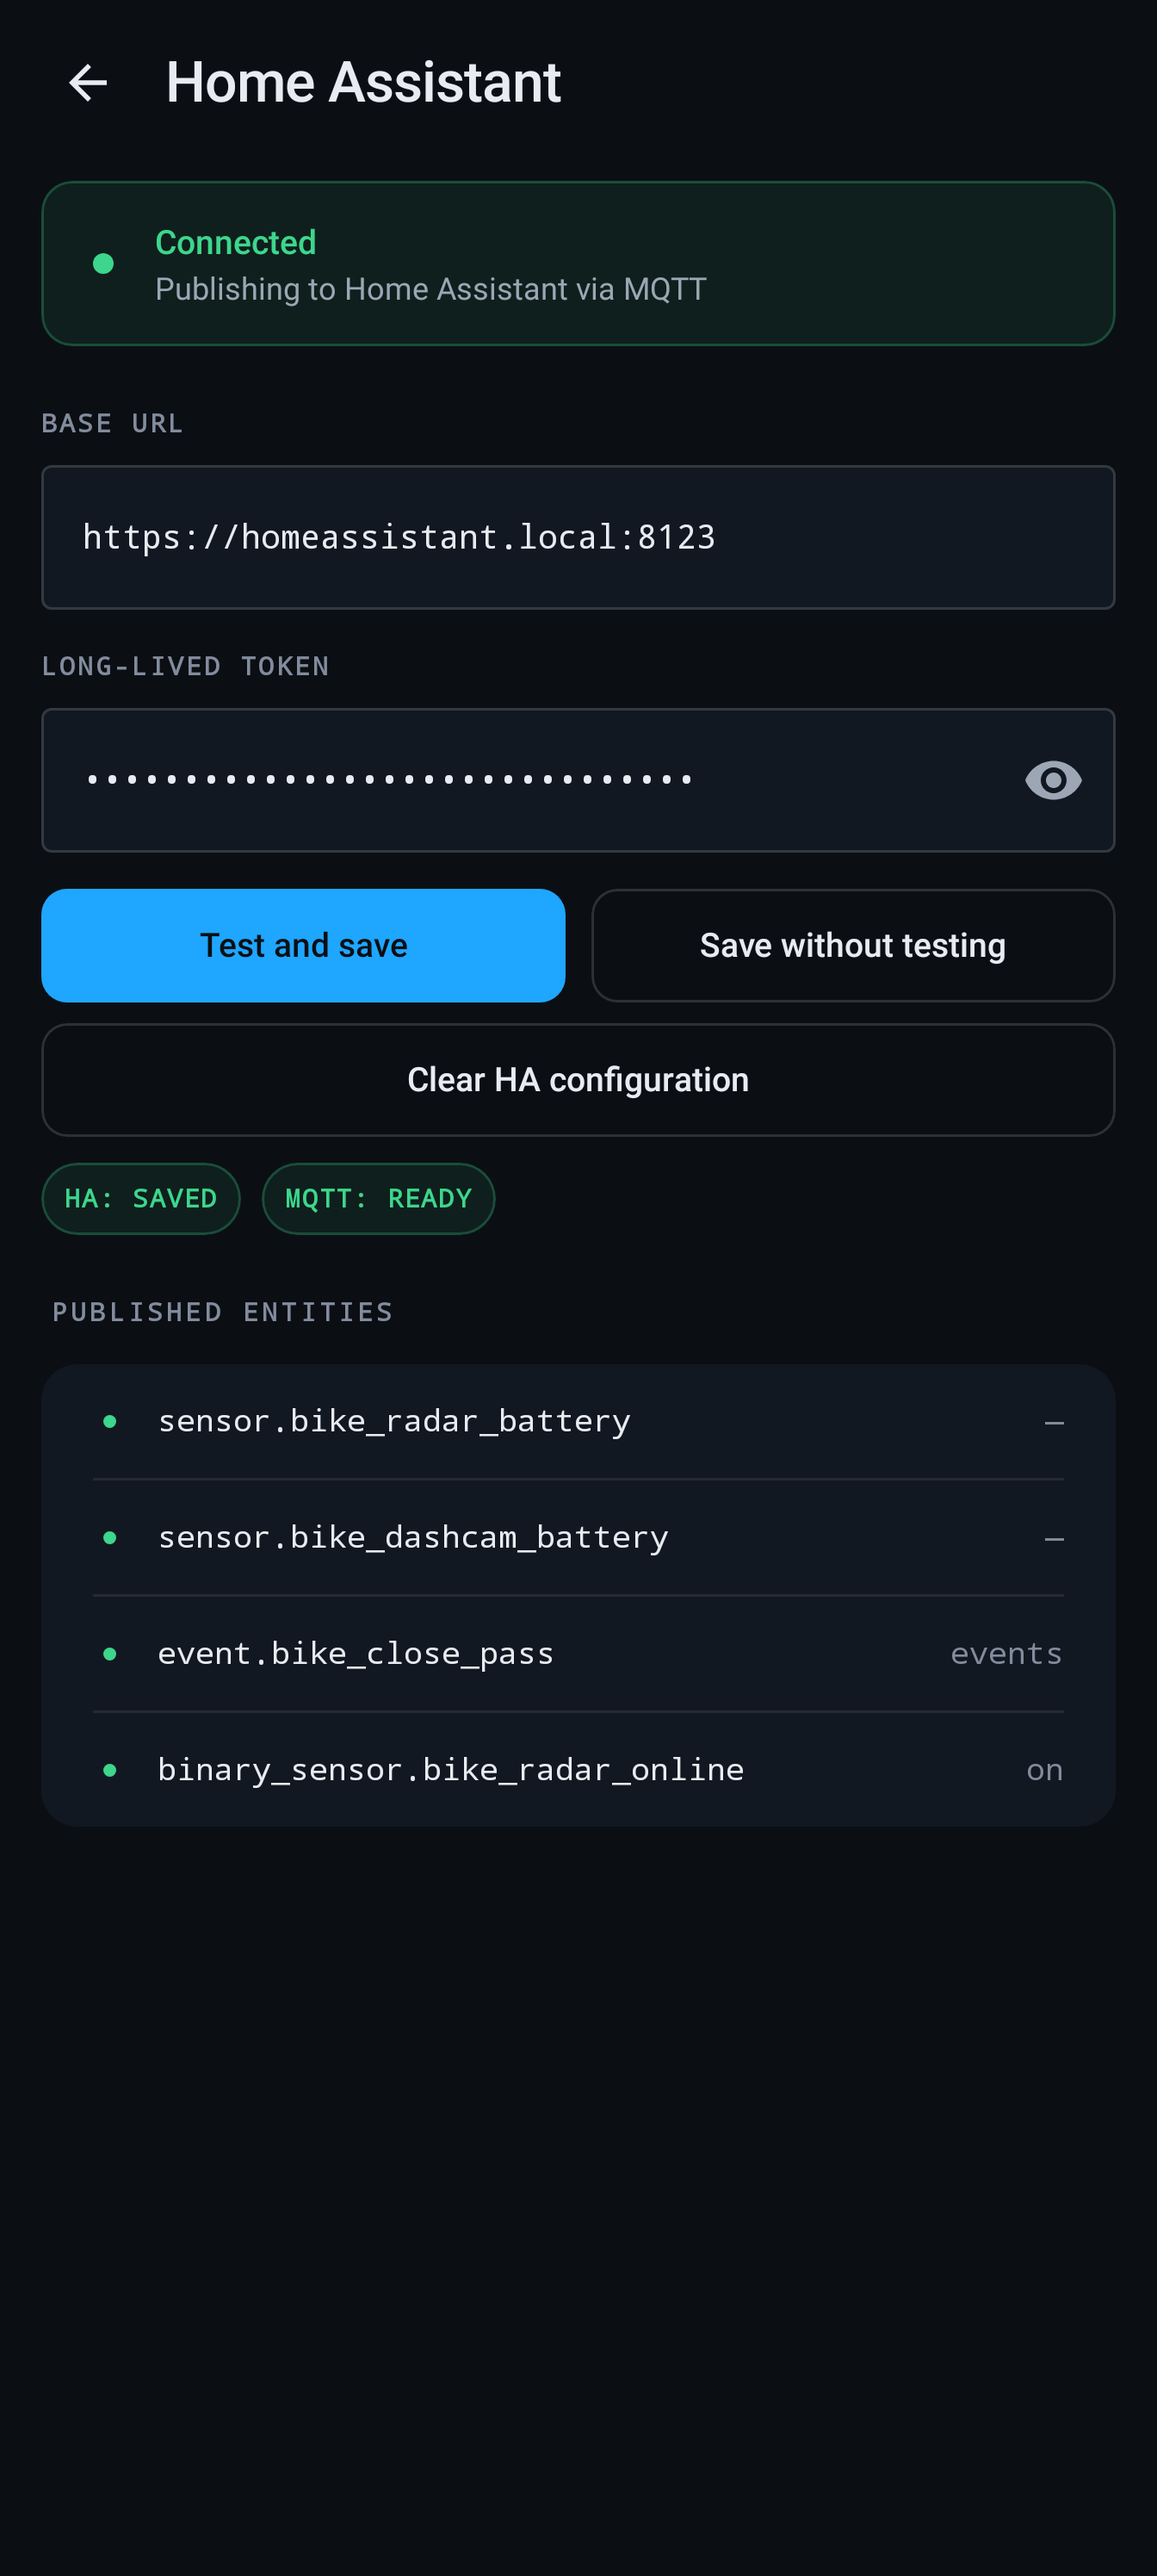
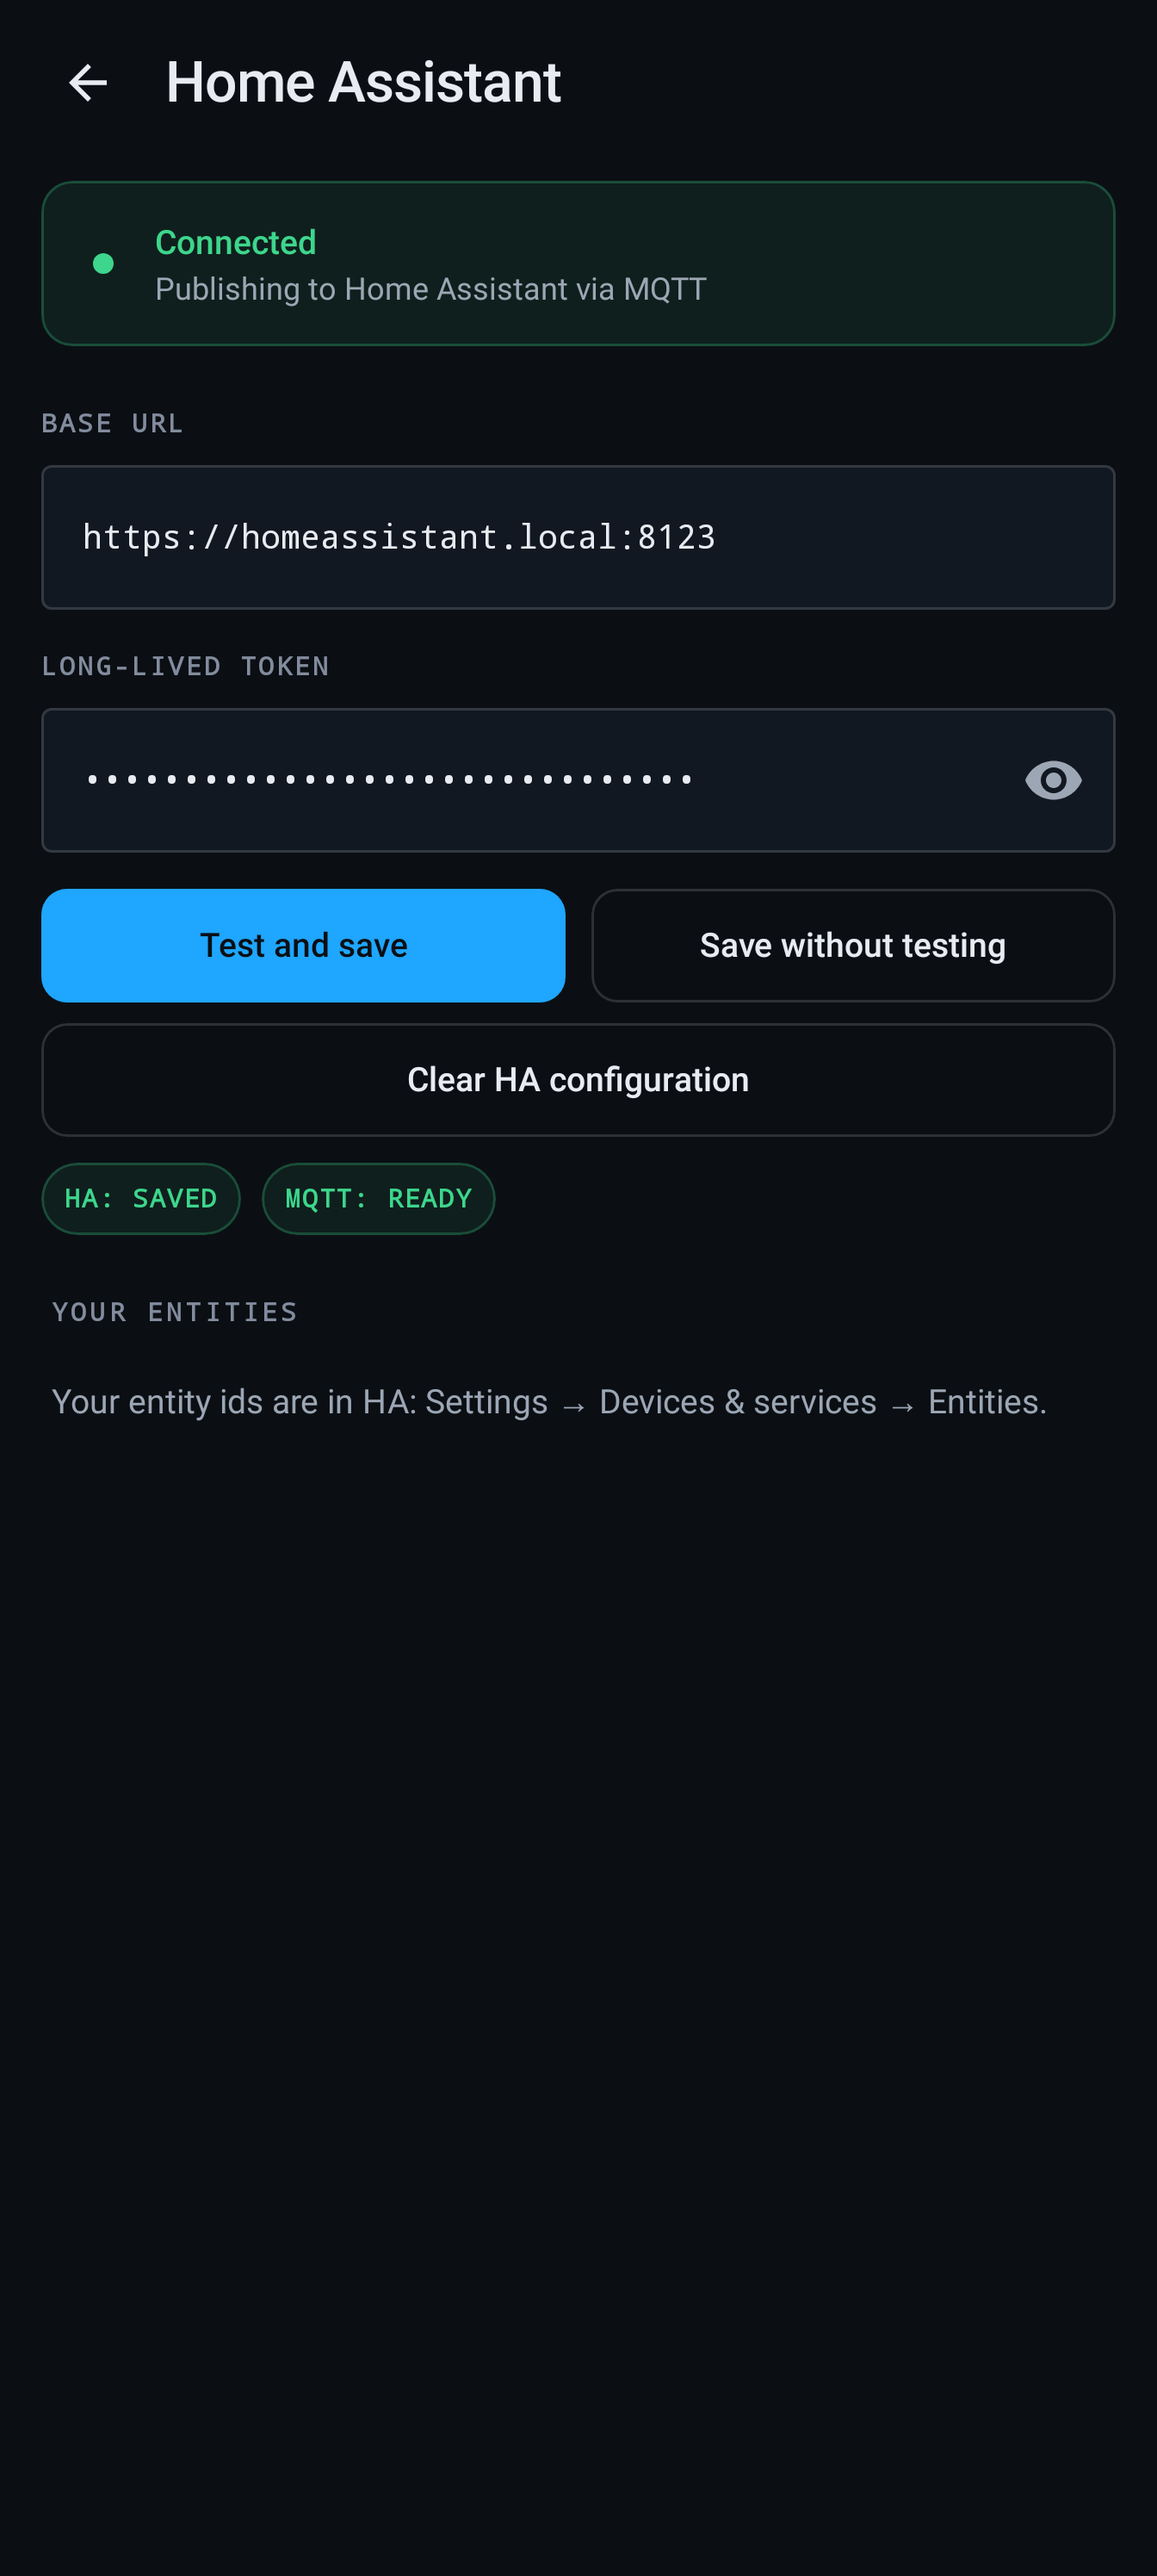
fix(ha): stop offering entity ids Home Assistant never assigns
The screen listed ids built from the MQTT namespace and device slug. Home
Assistant uses neither, building them from the device name and the
entity's display name. A rider pasting one into an automation got no
match and no error.

Reproducing them here would copy HA's slug rules, free to drift, so the
screen points at where the real ids live instead, and only claims they
are there once something has actually been published.

diff --git a/app/src/main/java/es/jjrh/bikeradar/ui/SettingsHa.kt b/app/src/main/java/es/jjrh/bikeradar/ui/SettingsHa.kt
@@ -50,9 +50,6 @@ import androidx.compose.ui.text.input.VisualTransformation
 import androidx.compose.ui.unit.dp
 import androidx.compose.ui.unit.sp
 import androidx.navigation.NavController
-import es.jjrh.bikeradar.BatteryStateBus
-import es.jjrh.bikeradar.BikeRadarService
-import es.jjrh.bikeradar.DeviceNameMatcher
 import es.jjrh.bikeradar.HaClient
 import es.jjrh.bikeradar.HaHealth
 import es.jjrh.bikeradar.HaHealthBus
@@ -64,7 +61,6 @@ import es.jjrh.bikeradar.data.HaCredentials
 import es.jjrh.bikeradar.data.Prefs
 import kotlinx.coroutines.Dispatchers
 import kotlinx.coroutines.launch
-import java.util.Locale
 
 @Composable
 fun SettingsHa(navController: NavController, prefs: Prefs) {
@@ -80,18 +76,6 @@ private fun SettingsHaBody(navController: NavController, prefs: Prefs) {
     val creds = remember { HaCredentials(ctx) }
     val haHealth by HaHealthBus.state.collectAsState()
     val prefsSnap by prefs.flow.collectAsState(initial = prefs.snapshot())
-    // Resolved by device class, because the entity families differ per device.
-    // Deliberately NOT freshness-filtered like the other reads of this bus: an
-    // entity persists in HA whether or not the device was seen recently.
-    val batteryEntries by BatteryStateBus.entries.collectAsState()
-    val radarSlug = batteryEntries.values
-        .firstOrNull { DeviceNameMatcher.isRadarName(it.name) }?.slug
-    val cameraSlug = prefsSnap.dashcamMac?.let { mac ->
-        BikeRadarService.macToSlug[mac]
-            ?: BikeRadarService.macToSlug[mac.uppercase(Locale.ROOT)]
-            ?: prefsSnap.dashcamDisplayName?.let { BikeRadarService.slug(it) }
-    }?.takeIf { batteryEntries.containsKey(it) }
-
     // urlField + tokenField + tokenVisible survive Activity recreate
     // (rotation, system-killed-on-resume) so a half-typed token isn't
     // lost. pingResult/mqttResult/pinging are transient — if the
@@ -139,10 +123,6 @@ private fun SettingsHaBody(navController: NavController, prefs: Prefs) {
         pinging = pinging,
         haHealth = haHealth,
         haConfigured = haConfigured,
-        radarSlug = radarSlug,
-        cameraSlug = cameraSlug,
-        closePassEnabled = prefsSnap.closePassLoggingEnabled,
-        autoLightModeEnabled = prefsSnap.autoLightModeEnabled,
         onBack = { navController.popBackStack() },
         onTestAndSave = {
             val url = urlField.trim()
@@ -239,12 +219,6 @@ internal fun SettingsHaContent(
     onTestAndSave: () -> Unit,
     onSaveWithoutTesting: () -> Unit,
     onClear: () -> Unit,
-    /** Battery, close-pass events and the ride statistics. */
-    radarSlug: String? = null,
-    /** Battery and light mode only. */
-    cameraSlug: String? = null,
-    closePassEnabled: Boolean = false,
-    autoLightModeEnabled: Boolean = false,
 ) {
     val br = LocalBrColors.current
     Box(modifier = Modifier.fillMaxSize().background(br.bg).systemBarsPadding()) {
@@ -377,38 +351,25 @@ internal fun SettingsHaContent(
                 }
             }
 
-            // The ids the rider will find in their Home Assistant. No value is
-            // shown because none is queried.
-            val published = haStatus == HaStatus.READY
-            // Asked of the publisher: the families are not per-device.
-            val entityIds = HaClient.publishedEntityIds(
-                radarSlug = radarSlug,
-                cameraSlug = cameraSlug,
-                closePassEnabled = closePassEnabled,
-                autoLightModeEnabled = autoLightModeEnabled,
-            )
+            // Points at Home Assistant rather than listing ids, because the app
+            // cannot know them: HA derives an entity id from the device name
+            // and the entity's display name using its own slug rules, and does
+            // not use the payload's `object_id`. Reproducing that here would be
+            // a second copy of another system's naming rule, free to drift.
+            // Two branches, because until a publish has succeeded there is
+            // nothing in HA to go and look at, and sending the rider there
+            // would have them hunting for entities that do not exist yet.
             SettingsSectionLabel(stringResource(R.string.settings_ha_published_entities))
-            if (entityIds.isEmpty()) {
-                // Prose, not an EntityRow: through that it renders monospace
-                // with a status dot and reads as a fake entity id.
-                Text(
-                    text = stringResource(R.string.settings_ha_entities_none_yet),
-                    color = br.fgMuted,
-                    fontSize = 13.sp,
-                    modifier = Modifier.padding(horizontal = 20.dp, vertical = 4.dp),
-                )
-            } else {
-                SettingsRowGroup {
-                    entityIds.forEachIndexed { i, id ->
-                        EntityRow(
-                            name = id,
-                            value = "",
-                            connected = published,
-                            isLast = i == entityIds.lastIndex,
-                        )
-                    }
-                }
-            }
+            Text(
+                text = if (haStatus == HaStatus.READY) {
+                    stringResource(R.string.settings_ha_entities_look_up_in_ha)
+                } else {
+                    stringResource(R.string.settings_ha_entities_after_publishing)
+                },
+                color = br.fgMuted,
+                fontSize = 13.sp,
+                modifier = Modifier.padding(horizontal = 20.dp, vertical = 4.dp),
+            )
 
             Spacer(modifier = Modifier.height(28.dp))
         }
@@ -578,45 +539,5 @@ private fun GhostButton(
             fontSize = 13.sp,
             fontWeight = FontWeight.Medium,
         )
-    }
-}
-
-@Composable
-private fun EntityRow(name: String, value: String, connected: Boolean, isLast: Boolean) {
-    val br = LocalBrColors.current
-    Column {
-        Row(
-            modifier = Modifier
-                .fillMaxWidth()
-                .padding(horizontal = 20.dp, vertical = 12.dp),
-            verticalAlignment = Alignment.CenterVertically,
-            horizontalArrangement = Arrangement.spacedBy(12.dp),
-        ) {
-            StatusDot(color = if (connected) br.safe else br.fgDim, size = 5.dp)
-            Text(
-                text = name,
-                color = br.fg,
-                fontFamily = FontFamily.Monospace,
-                fontWeight = FontWeight.Medium,
-                fontSize = 12.sp,
-                modifier = Modifier.weight(1f),
-            )
-            Text(
-                text = value,
-                color = br.fgDim,
-                fontFamily = FontFamily.Monospace,
-                fontWeight = FontWeight.Medium,
-                fontSize = 12.sp,
-            )
-        }
-        if (!isLast) {
-            Box(
-                modifier = Modifier
-                    .fillMaxWidth()
-                    .height(1.dp)
-                    .padding(start = 20.dp, end = 20.dp)
-                    .background(br.hairline),
-            )
-        }
     }
 }

diff --git a/app/src/test/java/es/jjrh/bikeradar/ui/SettingsHaSnapshotTest.kt b/app/src/test/java/es/jjrh/bikeradar/ui/SettingsHaSnapshotTest.kt
@@ -101,11 +101,6 @@ class SettingsHaSnapshotTest {
                     pinging = false,
                     haHealth = HaHealth.Unknown,
                     haConfigured = true,
-                    // A seen radar, so the list renders its real ids. No
-                    // camera: a radar-only rider must not be shown a
-                    // front-camera entity.
-                    radarSlug = "rearvue8",
-                    closePassEnabled = true,
                     onBack = {},
                     onTestAndSave = {},
                     onSaveWithoutTesting = {},
@@ -134,11 +129,6 @@ class SettingsHaSnapshotTest {
                     pinging = false,
                     haHealth = HaHealth.Unknown,
                     haConfigured = true,
-                    // A seen radar, so the list renders its real ids. No
-                    // camera: a radar-only rider must not be shown a
-                    // front-camera entity.
-                    radarSlug = "rearvue8",
-                    closePassEnabled = true,
                     onBack = {},
                     onTestAndSave = {},
                     onSaveWithoutTesting = {},
@@ -164,11 +154,6 @@ class SettingsHaSnapshotTest {
                     pinging = false,
                     haHealth = HaHealth.Ok,
                     haConfigured = true,
-                    // A seen radar, so the list renders its real ids. No
-                    // camera: a radar-only rider must not be shown a
-                    // front-camera entity.
-                    radarSlug = "rearvue8",
-                    closePassEnabled = true,
                     onBack = {},
                     onTestAndSave = {},
                     onSaveWithoutTesting = {},
@@ -194,11 +179,6 @@ class SettingsHaSnapshotTest {
                     pinging = false,
                     haHealth = HaHealth.Error("connection refused", atMs = 0L),
                     haConfigured = true,
-                    // A seen radar, so the list renders its real ids. No
-                    // camera: a radar-only rider must not be shown a
-                    // front-camera entity.
-                    radarSlug = "rearvue8",
-                    closePassEnabled = true,
                     onBack = {},
                     onTestAndSave = {},
                     onSaveWithoutTesting = {},

diff --git a/app/src/main/java/es/jjrh/bikeradar/HaClient.kt b/app/src/main/java/es/jjrh/bikeradar/HaClient.kt
@@ -510,33 +510,6 @@ open class HaClient(private val baseUrl: String, private val token: String) {
         private const val LEGACY_NS = "varia"
 
         /**
-         * The entity ids this app publishes, for the devices it has seen.
-         *
-         * Here rather than in the UI because the families are not per-device:
-         * battery for any device, light mode for the camera, close-pass and
-         * the ride statistics for the radar only. A list that fanned all of
-         * them across every slug named entities nothing had published.
-         */
-        fun publishedEntityIds(
-            radarSlug: String?,
-            cameraSlug: String?,
-            closePassEnabled: Boolean,
-            autoLightModeEnabled: Boolean,
-        ): List<String> = buildList {
-            if (radarSlug != null) {
-                add("sensor.${NS}_${radarSlug}_battery")
-                if (closePassEnabled) add("event.${NS}_${radarSlug}_close_pass")
-                RIDE_SUMMARY_SENSORS.forEach { add("sensor.${NS}_${radarSlug}_${it.field}") }
-            }
-            if (cameraSlug != null) {
-                add("sensor.${NS}_${cameraSlug}_battery")
-                // The camera link only runs, and so only publishes the mode,
-                // when the rider has the light auto-mode on.
-                if (autoLightModeEnabled) add("sensor.${NS}_${cameraSlug}_front_mode")
-            }
-        }
-
-        /**
          * The ride-summary sensor family, in one place so the publisher and
          * the stale-topic cleanup cannot disagree about which entities exist.
          * A sensor added here is published AND retired on the next rename.

diff --git a/app/src/test/java/es/jjrh/bikeradar/HaClientGuardsTest.kt b/app/src/test/java/es/jjrh/bikeradar/HaClientGuardsTest.kt
@@ -111,11 +111,17 @@ class HaClientGuardsTest {
             "event_types must include close_pass",
             (0 until eventTypes.length()).any { eventTypes.getString(it) == "close_pass" },
         )
-        // HA binds entity_id to (unique_id, object_id) on first publish;
-        // diverging the two creates a duplicate entity that ignores the
-        // dashboard's bindings (issue home-assistant/core#124259).
+        // Keeps the two in step so a future edit cannot move one without the
+        // other. It is NOT what fixes the entity id: with `has_entity_name`
+        // set on a named device, HA builds the id from the device name plus
+        // the entity's display name and does not use `object_id` at all. The
+        // published ride-summary ids show it: they read `..._close_passes` and
+        // `..._peak_closing_speed` (the display names) rather than
+        // `close_pass_count` / `peak_closing_kmh` (the object_ids). Never
+        // claim HA binds entity_id to object_id - it is false, and this
+        // assertion is not evidence for it.
         assertEquals(
-            "unique_id must equal object_id to preserve entity binding",
+            "unique_id and object_id must stay in step",
             payload.getString("unique_id"),
             payload.getString("object_id"),
         )
